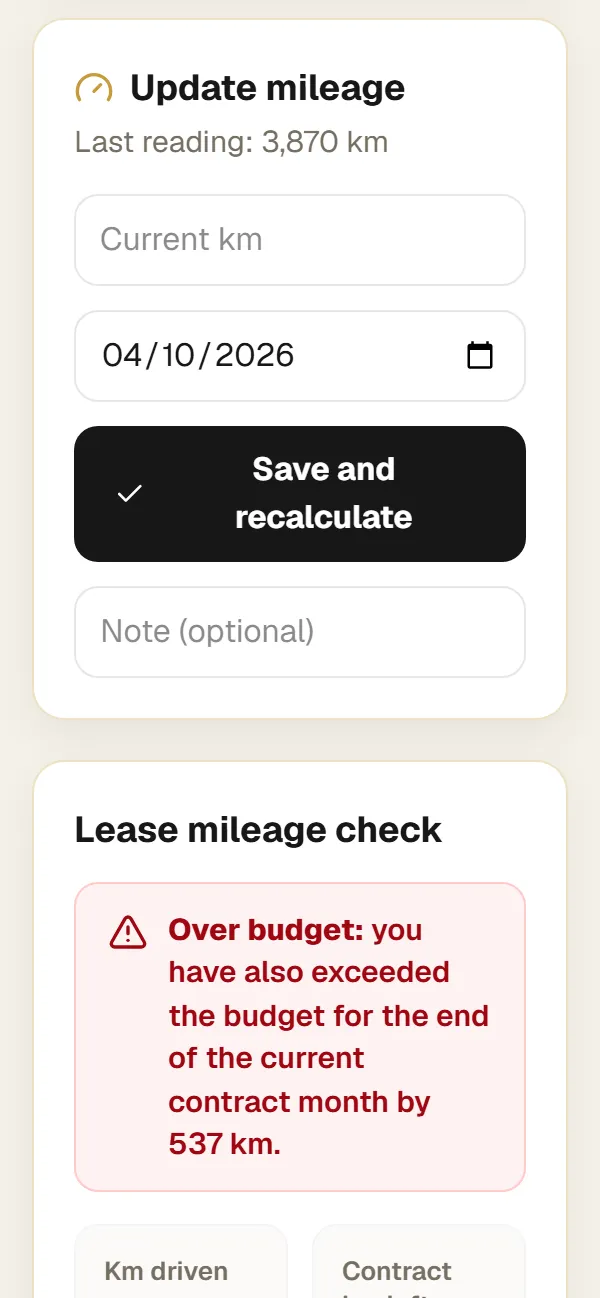
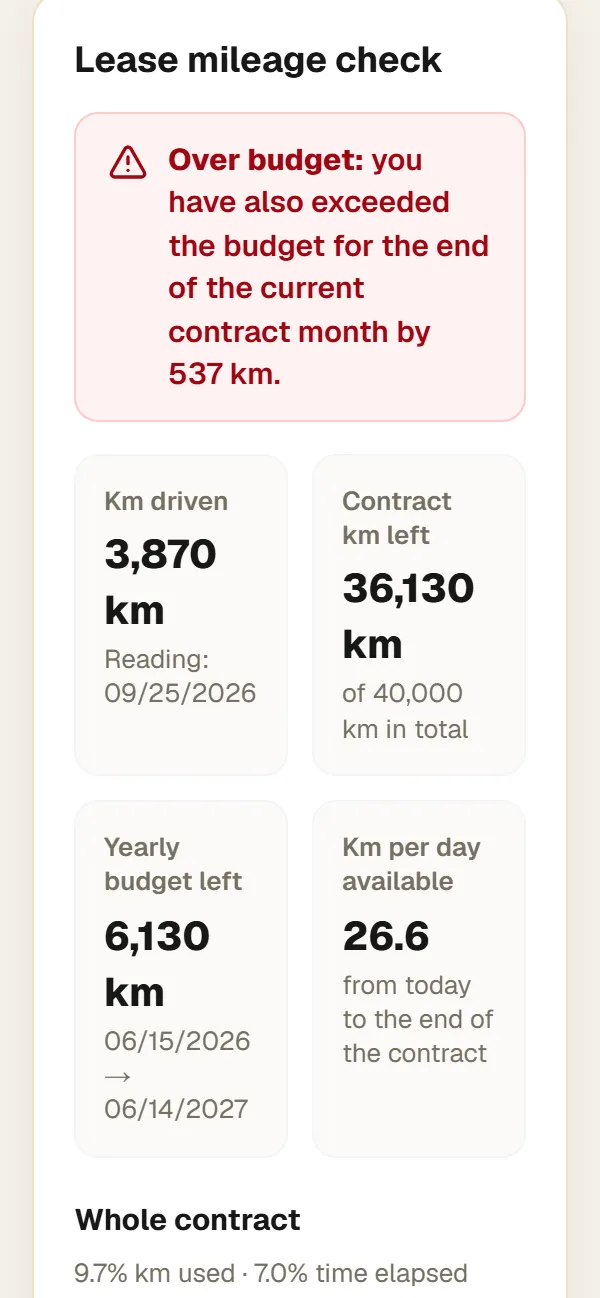
feat: volantino Kumani Garage (telefono con il controllo km del noleggio: fuori budget, km percorsi e residui, km al giorno) nelle 7 lingue; schermata del passo 3 della guida sul controllo km

diff --git a/src/lib/flyers.ts b/src/lib/flyers.ts
@@ -40,6 +40,7 @@ export const FLYERS: FlyerConfig[] = [
   { tool: 'link-in-bio', style: 'phone', category: 'marketing', icon: 'Link', points: ['Clock', 'Palette', 'Share2'], shot: 'link-in-bio-4' },
   { tool: 'spendly', style: 'phone', category: 'personal', icon: 'PiggyBank', points: ['ChartLine', 'Wallet', 'CalendarDays'], shot: 'spendly-2' },
   { tool: 'fincheck', style: 'phone', category: 'personal', icon: 'Gauge', points: ['ClipboardList', 'ChartColumn', 'ListChecks'], shot: 'fincheck-3' },
+  { tool: 'garage', style: 'phone', category: 'personal', icon: 'Car', points: ['Gauge', 'Bell', 'Wallet'], shot: 'garage-3' },
   { tool: 'findo', style: 'phone', category: 'personal', icon: 'MapPin', points: ['Camera', 'Search', 'House'], shot: 'findo-1' },
   { tool: 'travel', style: 'photo', category: 'personal', icon: 'Plane', points: ['CalendarDays', 'ListChecks', 'Users'], photo: '/flyers/photos/group-travel.webp' },
   { tool: 'kumani-cv', style: 'phone', category: 'personal', icon: 'IdCard', points: ['FileText', 'RefreshCw', 'Globe'], shot: 'kumani-cv-1' },
